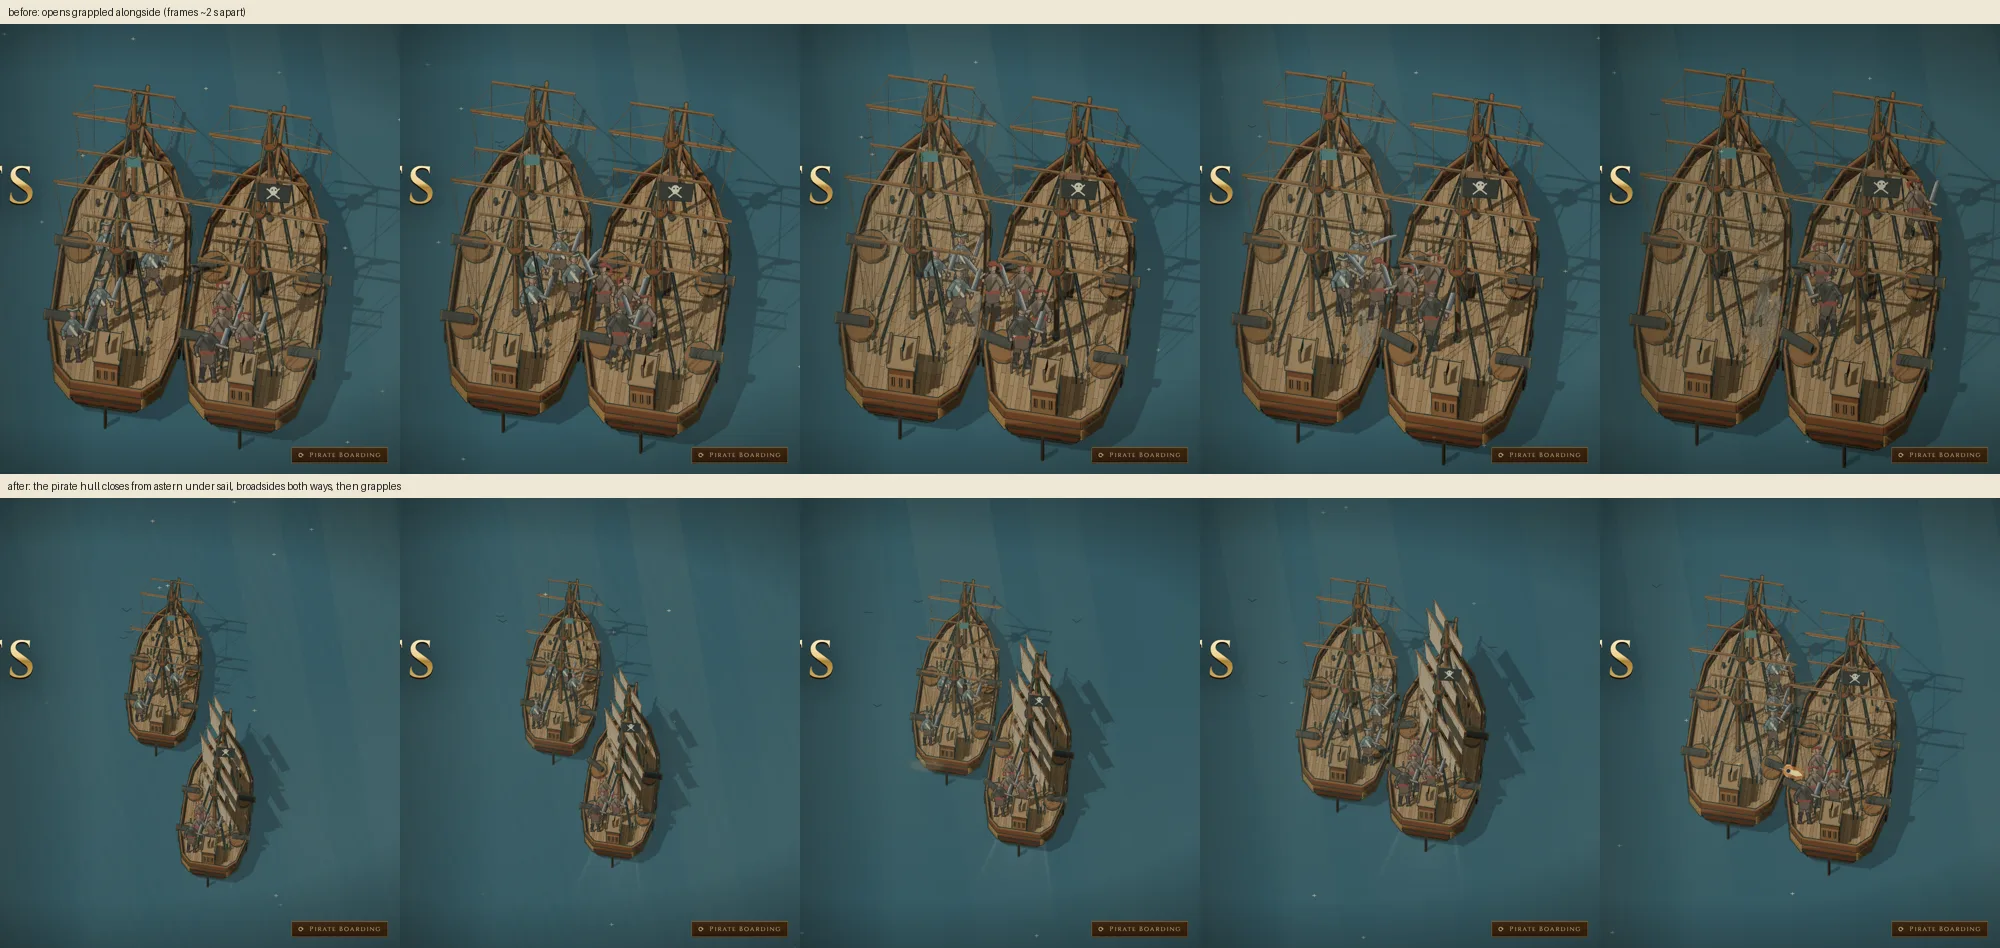
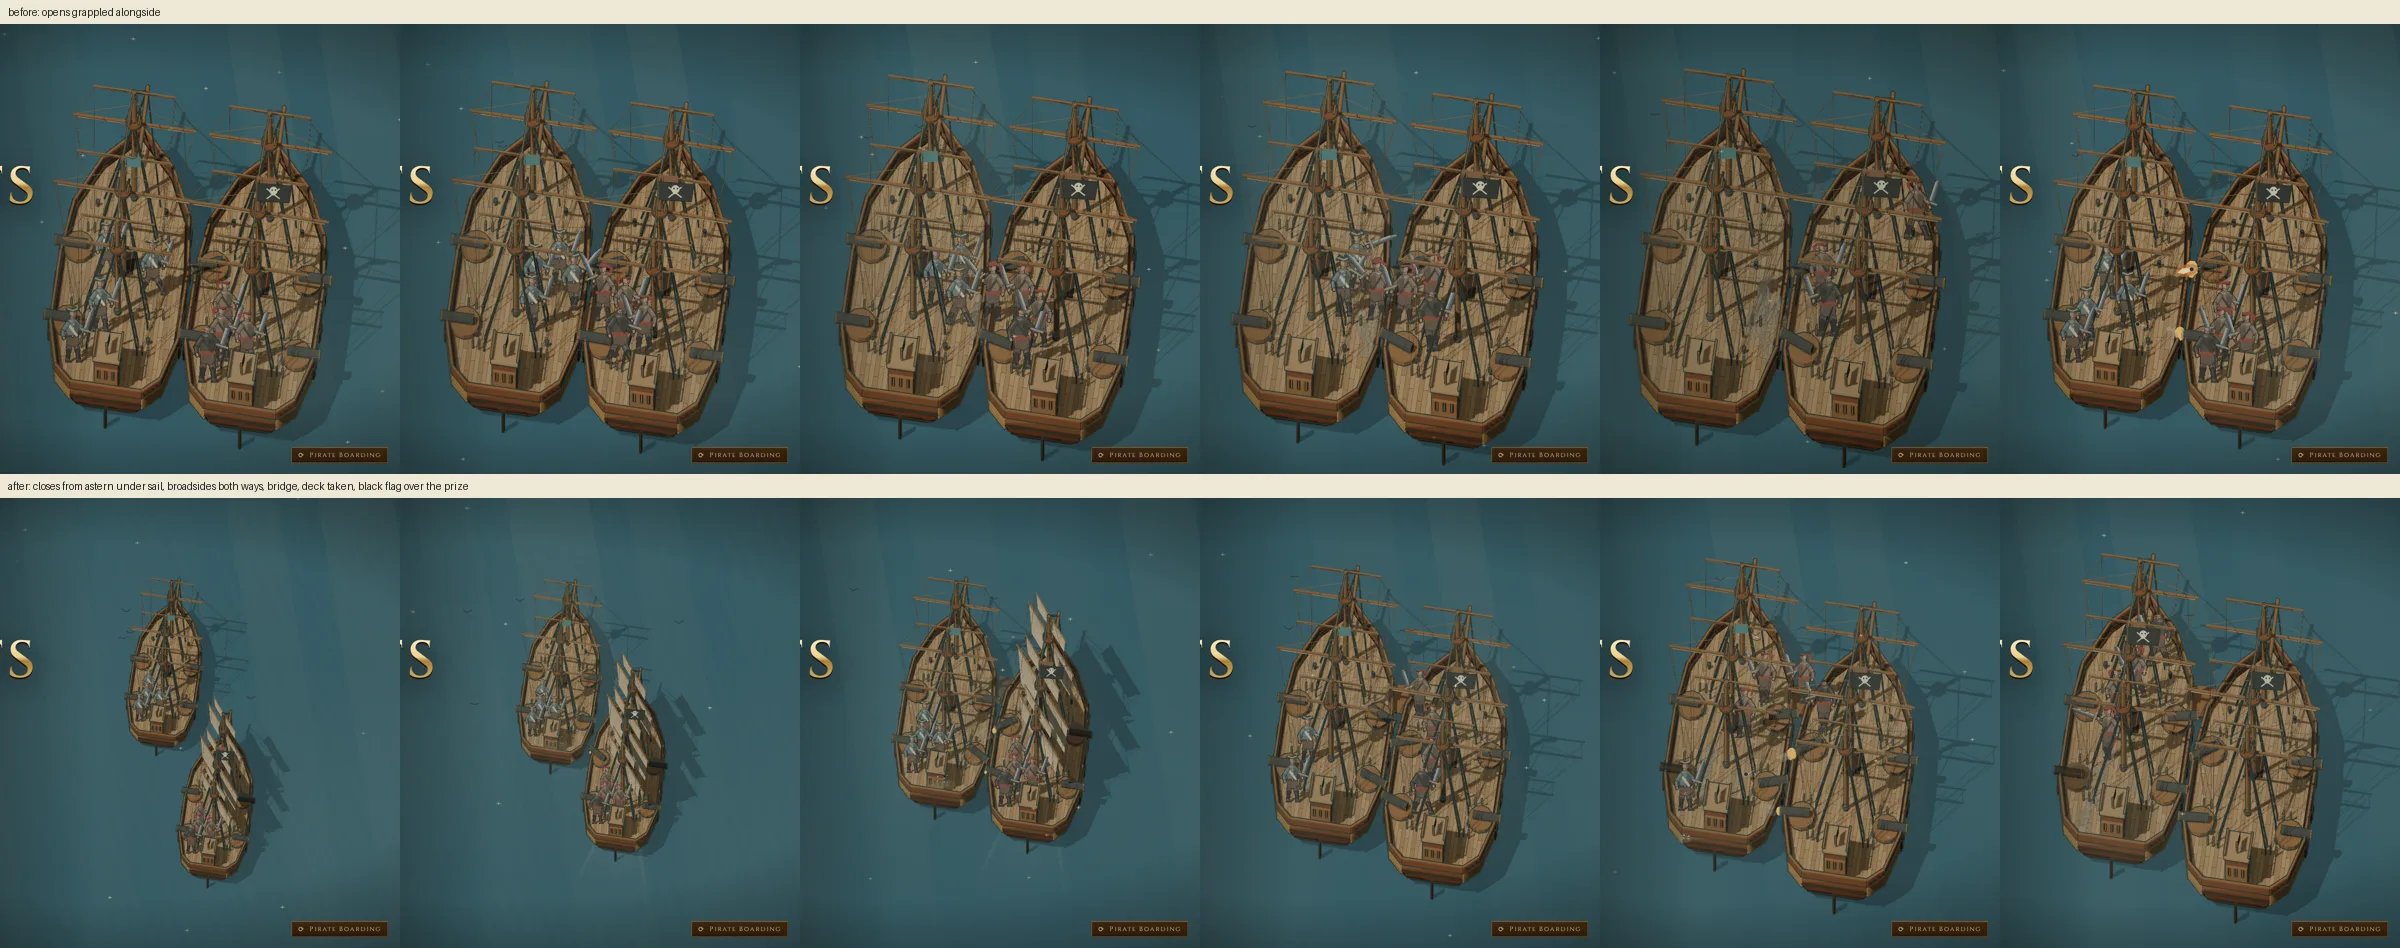
fix(menu): the marines hold their posts so the boarders take the ship
Why: on main after #421, the marines sent across their deck chased the
pirate hull to the rail and cut at it; the damage took the bridge down and
the pirates lost every seed, while the scene test passed because its
capture check (admiralty.owner === pirates.owner) also holds when the
pirates' own hull is taken.

The marines now hold their posts and meet the boarders where they come
aboard. The test checks that the admiralty ship goes to "corsairs" and that
the pirate hull stays theirs. It no longer asks that a pirate falls: the
broadsides on the way in now soften the marines.

Measured (simulation, seeds 1-20): every seed is a pirate capture; bridge
15.2-15.3 s, decided and taken on the same tick at 22.2-22.4 s, so the flag
shows for the full 4 s aftermath before the fade; menu simulation 45-64 ms
CPU per simulated second on the A100.

Verified: tsc; vitest of the five menu test files (27 passed); browser
frames of the home page showing the capture and flag before the fade
(docs/menu/pirate-approach-before-after.webp).

diff --git a/src/client/menu-pirate-boarding.test.ts b/src/client/menu-pirate-boarding.test.ts
@@ -6,13 +6,13 @@ import { createPirateBoarding } from './menu-pirate-boarding';
 import { battleDecided } from './menu-scene-world';
 
 describe('the pirate boarding home battle', () => {
-  it('opens with the pirates closing from astern: two ships of the line with their crews on deck, the pirate helm ordered to board and the marines to the rail', () => {
+  it('opens with the pirates closing from astern: two ships of the line with their crews on deck, the pirate helm ordered to board and the marines at their posts', () => {
     const run = createPirateBoarding(), game = run.game;
     expect('battle' in run && run.battle).toEqual({ scene: 'fleet', seed: 1 });
     const [pirates, admiralty] = game.activePlayers.map(owner => game.units.find(unit => unit.owner === owner && unit.kind === 'shipOfTheLine')!);
     expect(pirates!.order.type).toBe('boardShip');
     const crew = (owner: string) => game.units.filter(unit => unit.owner === owner && unit.deck);
-    expect(crew(admiralty!.owner).every(unit => unit.order.type === 'attackMove')).toBe(true);
+    expect(crew(admiralty!.owner).every(unit => unit.order.type === 'hold')).toBe(true);
     expect(crew(pirates!.owner).length).toBeGreaterThanOrEqual(4); expect(crew(admiralty!.owner)).toHaveLength(4);
     // Both carry a ship of the line's four guns, and the pirates start well off the berth, not grappled.
     for (const ship of [pirates!, admiralty!]) expect(game.items.filter(item => item.shipId === ship.id).map(item => item.mountId).sort()).toEqual(['port0', 'port2', 'starboard0', 'starboard2']);
@@ -24,10 +24,9 @@ describe('the pirate boarding home battle', () => {
     expect(JSON.stringify(snapshotGame(MENU_BATTLES.fleet(5)))).toBe(JSON.stringify(snapshotGame(createPirateBoarding(5).game)));
   });
 
-  it('is fought by the simulation: broadsides both ways as the pirates come up, the bridge goes out, the marines meet the boarders, a pirate falls and the ship is taken', () => {
+  it('is fought by the simulation: broadsides both ways as the pirates come up, the bridge goes out, the boarders win the deck and the pirates take the ship', () => {
     const game = createPirateBoarding().game;
     const [pirates, admiralty] = game.activePlayers.map(owner => game.units.find(unit => unit.owner === owner && unit.kind === 'shipOfTheLine')!);
-    const boarders = game.units.filter(unit => unit.owner === pirates!.owner && unit.deck);
     let bridge = 0, decided = 0, captured = 0, hullsHitBeforeBridge = new Set<string>();
     const hp = new Map([pirates!, admiralty!].map(ship => [ship.id, ship.hp]));
     for (let tick = 1; tick <= 60 * SIM_TICKS_PER_SECOND && !captured; tick++) {
@@ -35,15 +34,16 @@ describe('the pirate boarding home battle', () => {
       if (!bridge) for (const ship of [pirates!, admiralty!]) if (ship.hp < hp.get(ship.id)!) hullsHitBeforeBridge.add(ship.id);
       if (!bridge && pirates!.sailing?.gangway?.phase === 'ready') bridge = tick;
       if (!decided && battleDecided(game)) decided = tick;
-      if (admiralty!.owner === pirates!.owner) captured = tick;
+      // Taken by the pirates, not the pirates' own hull taken by the marines.
+      if (admiralty!.owner === 'corsairs') captured = tick;
     }
     // The chase is short enough for the home screen, and each side's guns find the other hull on the way in.
     expect(bridge).toBeGreaterThan(0); expect(bridge).toBeLessThan(20 * SIM_TICKS_PER_SECOND); expect(decided).toBeGreaterThan(bridge);
     expect(hullsHitBeforeBridge.size).toBe(2);
     // The prize is taken within the aftermath the home screen shows after the fight is decided.
     expect(captured).toBeGreaterThanOrEqual(decided); expect(captured - decided).toBeLessThan(4 * SIM_TICKS_PER_SECOND);
+    expect(pirates!.owner).toBe('corsairs');
     // The prize's deck is cleared; a marine who crossed the other way may still stand on the pirates' deck.
     expect(game.units.filter(unit => unit.owner === 'admiralty' && unit.deck?.shipId === admiralty!.id && unit.hp > 0)).toHaveLength(0);
-    expect(boarders.filter(unit => unit.hp <= 0 || !game.units.includes(unit)).length).toBeGreaterThan(0);
   }, 60_000);
 });

diff --git a/src/client/menu-pirate-boarding.ts b/src/client/menu-pirate-boarding.ts
@@ -106,7 +106,7 @@ export function createPirateBoarding(seed = 1): MenuSceneRun {
   // Four a side, one more boarder some visits: a fight on deck costs the simulation far more than one on land, and the
   // home screen keeps it small.
   crew(a, 'menu/pirate', 4 + Math.floor(random() * 2));
-  const marines = crew(b, 'menu/marine', 4);
+  crew(b, 'menu/marine', 4);
   syncDecks(game.units);
   for (const unit of game.units) if (unit.deck) unit.order = { type: 'hold', x: unit.x, y: unit.y };
   // The scene opens with the pirates in the admiralty ship's wake, on the line of the berth the simulation itself would
@@ -124,10 +124,8 @@ export function createPirateBoarding(seed = 1): MenuSceneRun {
   };
   // The opening orders. The pirate helm grapples and boards; once the bridge is out it sends its own crew across.
   issuePlayerCommand(game, PIRATES, { type: 'boardShip', unitIds: [a.id], targetId: b.id });
-  // Scene setup, not a rule: the marines gather on their own deck towards the side the boarders come over, so they meet
-  // them together instead of one at a time at their posts. Short of the rail, so they do not hack at the pirate hull and
-  // cut the bridge loose while it goes out.
-  issuePlayerCommand(game, GUARD, { type: 'attackMove', unitIds: marines.map(unit => unit.id), x: b.x + (berth.x - b.x) * .2, y: b.y + (berth.y - b.y) * .2 });
+  // The marines hold their posts (set with the crews above) and meet the boarders where they come aboard. Sent to the
+  // rail instead, they cut at the pirate hull alongside, and a hull's damage takes the bridge down before it is out.
   const deckProps: DeckProp[] = [];
   const prop = (kind: string, ship: Unit, at: Point, mast = false, shows?: DeckProp['shows']) => {
     deckProps.push({ view: pieces.prop(kind, 0, 0, 1), shipId: ship.id, at, mast, ...(shows ? { shows } : {}) });
